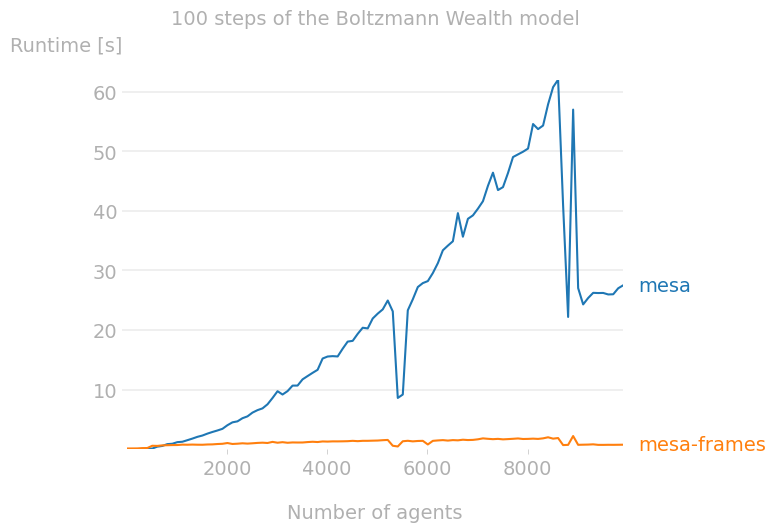
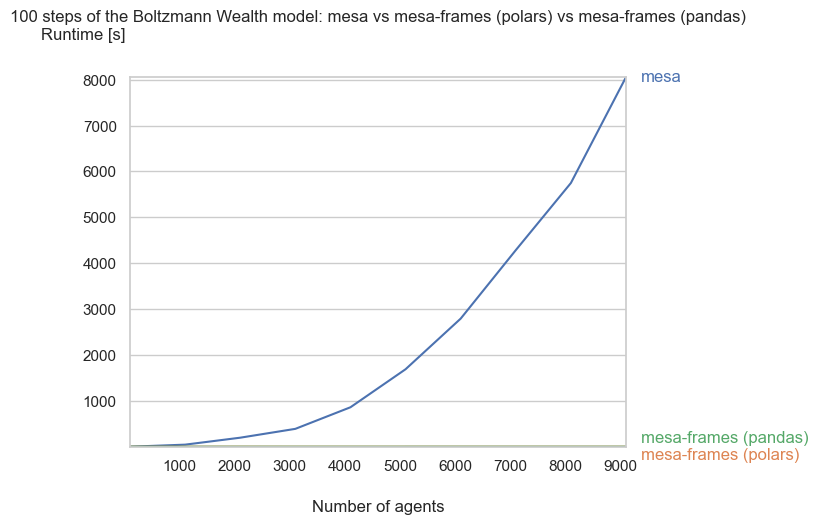
Improve documentation

diff --git a/README.md b/README.md
@@ -1,36 +1,52 @@
 # mesa-frames
- `mesa-frames` is an extension of the [`mesa`](https://github.com/projectmesa/mesa) designed for complex simulations with thousands of agents. By storing agents in a Pandas dataframe, `mesa-frames` significantly enhances the performance and scalability of `mesa`, while mantaining a similar syntax.  `mesa-frames` allows for the use of [vectorized functions](https://vegibit.com/what-is-a-vectorized-operation-in-pandas/) whenever simultaneous activation of agents is possible.
 
-## Why Pandas?
-[Pandas](https://pandas.pydata.org/) is a popular data-manipulation Python library, developed using C and Cython. Pandas it's known both for its ease of use, allowing for declarative programming and performance. The following is a performance graph showing execution time using `mesa` and `mesa-frames` for the [Boltzmann Wealth model](https://mesa.readthedocs.io/en/stable/tutorials/intro_tutorial.html).
+mesa-frames is an extension of the [mesa](https://github.com/projectmesa/mesa) framework, designed for complex simulations with thousands of agents. By storing agents in a DataFrame, mesa-frames significantly enhances the performance and scalability of mesa, while maintaining a similar syntax. mesa-frames allows for the use of [vectorized functions](https://vegibit.com/what-is-a-vectorized-operation-in-pandas/) whenever simultaneous activation of agents is possible.
 
-![](https://github.com/adamamer20/mesa_frames/blob/main/docs/images/readme_plot.png)
+## Why DataFrames?
+
+DataFrames are optimized for simultaneous operations through [SIMD processing](https://en.wikipedia.org/wiki/Single_instruction,_multiple_data). At the moment, mesa-frames supports the use of two main libraries: Pandas and Polars.
+
+- [Pandas](https://pandas.pydata.org/) is a popular data-manipulation Python library, developed using C and Cython. Pandas is known for its ease of use, allowing for declarative programming and high performance.
+- [Polars](https://pola.rs/) is a new DataFrame library with a syntax similar to Pandas but with several innovations, including a backend implemented in Rust, the Apache Arrow memory format, query optimization, and support for larger-than-memory DataFrames.
+
+The following is a performance graph showing execution time using mesa and mesa-frames for the [Boltzmann Wealth model](https://mesa.readthedocs.io/en/stable/tutorials/intro_tutorial.html).
+
+![Performance Graph](https://github.com/adamamer20/mesa_frames/blob/main/docs/images/readme_plot.png)
 
 (The script used to generate the graph can be found [here](https://github.com/adamamer20/mesa_frames/blob/main/docs/scripts/readme_plot.py))
 
 ## Installation
 
 ### Cloning the Repository
-To get started with `mesa-frames`, first clone the repository from GitHub:
+
+To get started with mesa-frames, first clone the repository from GitHub:
+
 ```bash
 git clone https://github.com/adamamer20/mesa_frames.git
-cd mesa_frame
+cd mesa_frames
 ```
-- ### Installing in a conda environment
+
+### Installing in a Conda Environment
+
 If you want to install it into a new environment:
+
 ```bash
 conda create -n myenv -f requirements.txt
 pip install -e .
 ```
+
 If you want to install it into an existing environment:
+
 ```bash
 conda activate myenv
 conda install -f requirements.txt
 pip install -e .
 ```
 
-- ### Installing in a Python virtual environment
-If you want to install into a new environment:
+### Installing in a Python Virtual Environment
+
+If you want to install it into a new environment:
+
 ```bash
 python3 -m venv myenv
 source myenv/bin/activate  # On Windows, use `myenv\Scripts\activate`
@@ -38,7 +54,8 @@ pip install -r requirements.txt
 pip install -e .
 ```
 
-If you want to install into an existing environment:
+If you want to install it into an existing environment:
+
 ```bash
 source myenv/bin/activate  # On Windows, use `myenv\Scripts\activate`
 pip install -r requirements.txt
@@ -46,65 +63,82 @@ pip install -e .
 ```
 
 ## Usage
-NOTE: `mesa-frames` is currently in its early stages of development. As such, the usage patterns and API are subject to change. Breaking changes may be introduced. Reports of feedback and issues are encouraged.
 
-You can find the API documentation [here](https://adamamer20.github.io/mesa-frames/api)
+**Note:** mesa-frames is currently in its early stages of development. As such, the usage patterns and API are subject to change. Breaking changes may be introduced. Reports of feedback and issues are encouraged.
 
-### Creation of the model
+You can find the API documentation [here](https://adamamer20.github.io/mesa-frames/api).
 
-Creation of the model is fairly similar to the process in `mesa`. 
-A new method [`create_agents`](https://github.com/adamamer20/mesa_frames/blob/main/mesa_frames/model.py#L131) is introduced which substitutes the addition of agents to the scheduler.
-The [`run_model`](https://github.com/adamamer20/mesa_frames/blob/main/mesa_frames/model.py#L71) method also accepts the number of steps which the model has run.
+### Creation of an Agent
 
-```python
-from mesa_frames.model import ModelDF
-from mesa_frames.agent import AgentDF
-
-class MyModel(ModelDF):
-    def __init__(self, N):
-        super().__init__()
-        self.num_agents = N
-        self.create_agents(N, {MyAgent: 1})
-```
-
-### Creation of an agent
-The agent implementation differs from base `mesa`. Agents are only defined at the class level.
-The `dtypes` dictionary attribute defines the name and data types of the new columns that will be added to the MyModel.agents dataframe during the execution `create_agents`.
-All methods of an `AgentDF` should be class methods and every operation within class methods should operate on the `cls.model.agents` DataFrame, filtering by the class's mask initialized during the execution of `create_agents`. The step method is defined for the entire class.
+The agent implementation differs from base mesa. Agents are only defined at the AgentSet level. You can import either `AgentSetPandas` or `AgentSetPolars`. As in mesa, you subclass and make sure to call `super().__init__(model)`. You can use the `add` method or the `+=` operator to add agents to the AgentSet. Most methods mirror the functionality of `mesa.AgentSet`. Additionally, `mesa-frames.AgentSet` implements many dunder methods such as `AgentSet[mask, attr]` to get and set items intuitively. All operations are by default inplace, but if you'd like to use functional programming, mesa-frames implements a fast copy method which aims to reduce memory usage, relying on reference-only and native copy methods.
 
 ```python
-from mesa_frames.agent import AgentDF
+from mesa-frames import AgentSetPolars
 
-class MyAgent(AgentDF):
-    dtypes: dict[str, str] = {"wealth": "int64"}
+class MoneyAgentPolars(AgentSetPolars):
+    def __init__(self, n: int, model: ModelDF):
+        super().__init__(model)
+        # Adding the agents to the agent set
+        self += pl.DataFrame(
+            {"unique_id": pl.arange(n, eager=True), "wealth": pl.ones(n, eager=True)}
+        )
 
-    @classmethod
-    def __init__(cls):
-        super().__init__()
-        #The next line sets the wealth attribute of all agents that are type MyAgent to 1
-        cls.model.agents.loc[cls.mask, "wealth"] = 1
+    def step(self) -> None:
+        # The give_money method is called
+        self.do("give_money")
 
-    @classmethod
-    def step(cls):
-        wealthy_agents = cls.model.agents.loc[cls.mask, "wealth"] > 0
-        if wealthy_agents.any():
-            #The next line finds the mask of a random sample of agents which is of the same length as wealthy agents
-            other_agents = cls.model.agents.index.isin(
-                cls.model.agents.sample(n=wealthy_agents.sum()).index
-            )
-            cls.model.agents.loc[wealthy_agents, "wealth"] -= 1
-            cls.model.agents.loc[other_agents, "wealth"] += 1
+    def give_money(self):
+        # Active agents are changed to wealthy agents
+        self.select(self.wealth > 0)
 
+        # Receiving agents are sampled (only native expressions currently supported)
+        other_agents = self.agents.sample(
+            n=len(self.active_agents), with_replacement=True
+        )
+
+        # Wealth of wealthy is decreased by 1
+        self["active", "wealth"] -= 1
+
+        # Compute the income of the other agents (only native expressions currently supported)
+        new_wealth = other_agents.group_by("unique_id").len()
+
+        # Add the income to the other agents
+        self[new_wealth, "wealth"] += new_wealth["len"]
 ```
+
+### Creation of the Model
+
+Creation of the model is fairly similar to the process in mesa. You subclass `ModelDF` and call `super().__init__()`. The `model.agents` attribute has the same interface as `mesa-frames.AgentSet`. You can use `+=` or `self.agents.add` with a `mesa-frames.AgentSet` (or a list of `AgentSet`) to add agents to the model.
+
+```python
+from mesa-frames import ModelDF
+
+class MoneyModelDF(ModelDF):
+    def __init__(self, N: int, agents_cls):
+        super().__init__()
+        self.n_agents = N
+        self.agents += MoneyAgentPolars(N, self)
+
+    def step(self):
+        # Executes the step method for every agentset in self.agents
+        self.agents.do("step")
+
+    def run_model(self, n):
+        for _ in range(n):
+            self.step()
+```
+
 ## What's Next?
-- Refine the API to make it more understandable for someone who is already familiar with the `mesa` package. The goal is to provide a seamless experience for users transitioning to or incorporating `mesa-frames`.
-- Adding support for default `mesa` functions, ensure that the standard mesa functionality is preserved.
-- Adding support for or shifting to `polars` instead of pandas. This change aims to boost performance and decrease memory consumption, which is crucial for models with milions of agents.
+
+- Refine the API to make it more understandable for someone who is already familiar with the mesa package. The goal is to provide a seamless experience for users transitioning to or incorporating mesa-frames.
+- Adding support for default mesa functions to ensure that the standard mesa functionality is preserved.
+- Adding GPU functionality (cuDF and Rapids).
 - Creating a decorator that will automatically vectorize an existing mesa model. This feature will allow users to easily tap into the performance enhancements that mesa-frames offers without significant code alterations.
+- Creating a unique class for AgentSet, independent of the backend implementation.
 
 ## License
 
-`mesa-frames` is made available under the MIT License. This license allows you to use, copy, modify, merge, publish, distribute, sublicense, and/or sell copies of the software, subject to the following conditions:
+mesa-frames is made available under the MIT License. This license allows you to use, copy, modify, merge, publish, distribute, sublicense, and/or sell copies of the software, subject to the following conditions:
 
 - The above copyright notice and this permission notice shall be included in all copies or substantial portions of the Software.
 - The software is provided "as is", without warranty of any kind.
